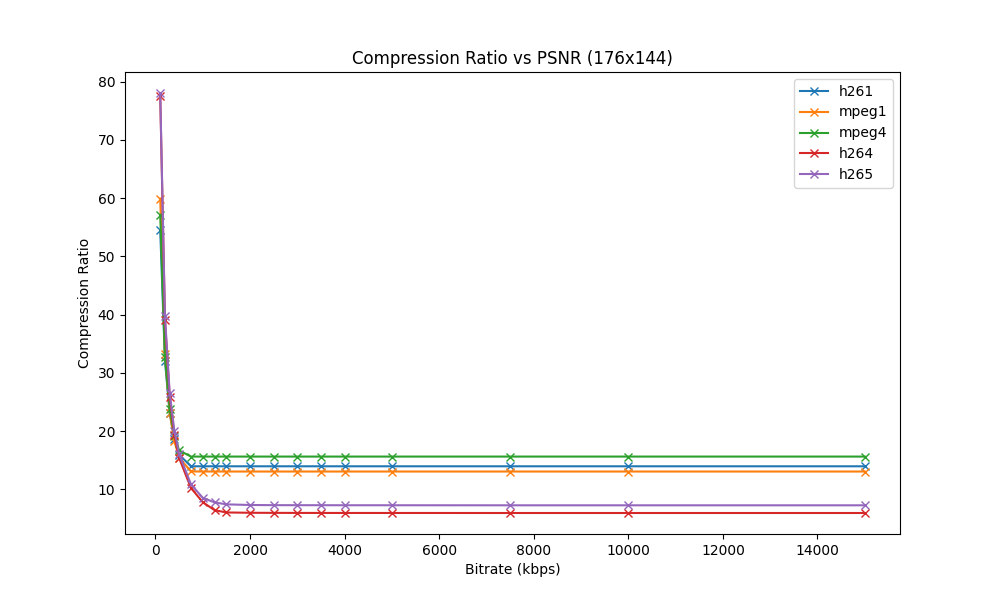
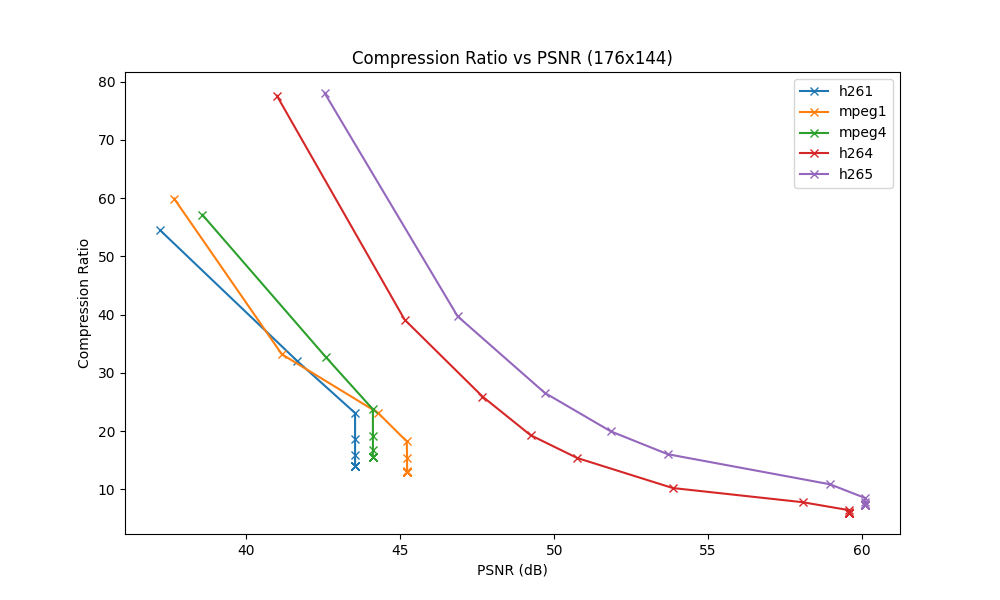
more plots xD

diff --git a/plot_compression_results.py b/plot_compression_results.py
@@ -82,19 +82,20 @@ for resolution in resolutions:
 
 # Plotting PSNR vs Bitrate, Compression Ratio vs Bitrate, and Compression Ratio vs PSNR for every resolution
 plot_titles = ['PSNR vs Bitrate', 'Compression Ratio vs Bitrate', 'Compression Ratio vs PSNR']
+x_labels = ['Bitrate (kbps)', 'Bitrate (kbps)', 'PSNR (dB)']
 y_labels = ['PSNR (dB)', 'Compression Ratio', 'Compression Ratio']
 y_columns = ['PSNR', 'compression_ratio', 'compression_ratio']
 
-for i, (title, y_label, y_col) in enumerate(zip(plot_titles, y_labels, y_columns)):
+for i, (title, x_label, y_label, y_col) in enumerate(zip(plot_titles, x_labels, y_labels, y_columns)):
     for resolution in resolutions:
         subset = df[df['resolution'] == resolution]
         fig, ax = plt.subplots(figsize=(10, 6))
         for codec, color in zip(codecs, colors):
             subset_codec = subset[subset['codec'] == codec]
-            ax.plot(subset_codec['bitrate_kbps'], subset_codec[y_col],
+            ax.plot(subset_codec['PSNR'] if 'PSNR' in x_label else subset_codec['bitrate_kbps'], subset_codec[y_col],
                     marker='x', linestyle='-', color=color, label=codec)
         ax.set_title(f'{title} ({resolution})')
-        ax.set_xlabel('Bitrate (kbps)')
+        ax.set_xlabel(x_label)
         ax.set_ylabel(y_label)
         ax.legend()
         save_plot(fig, f'{title.lower().replace(" ", "_")}_{resolution}.png')
